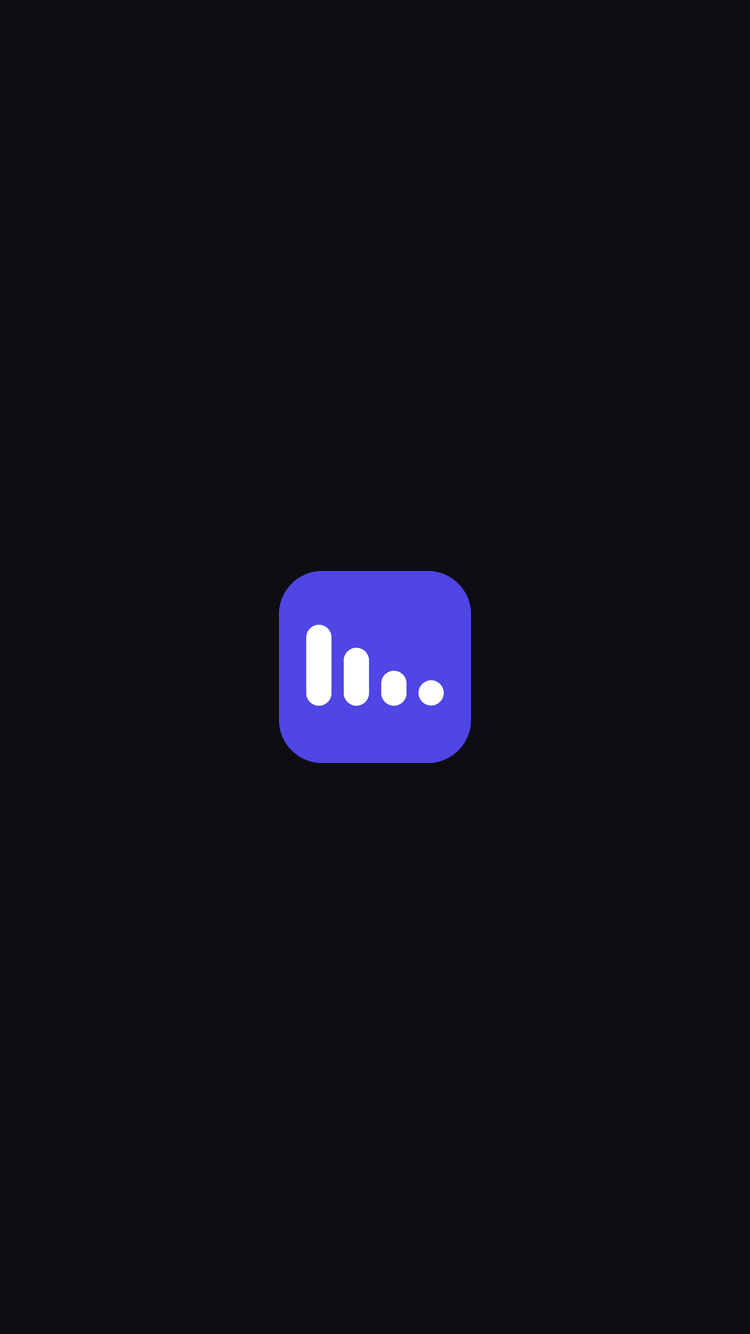
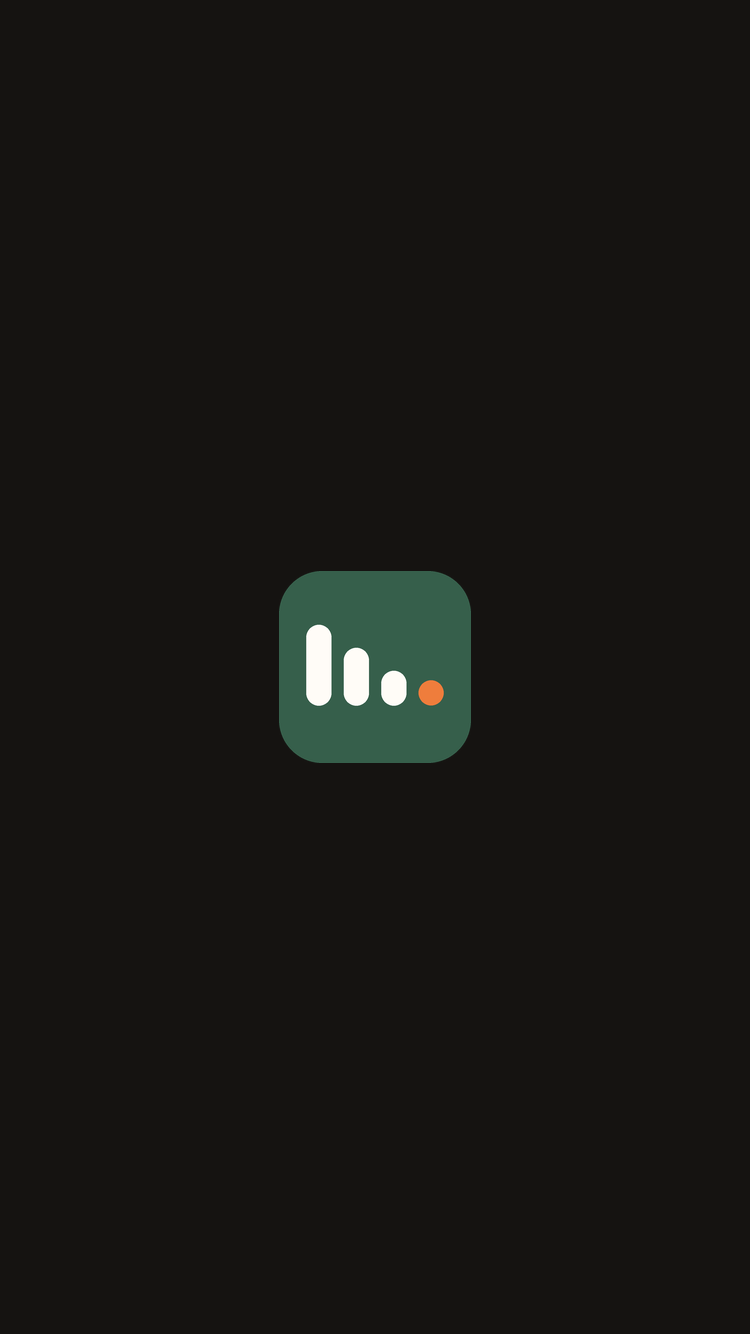
Colores salvia y naranja con luz cálida; totales de fijos y deudas en Pagos
- Fondo crema y tinta cálida, acción en salvia y detalle naranja (mes elegido, pestaña activa)
- Icono y pantallas de arranque nuevos con los mismos colores
- Pagos: total junto a Gastos fijos y Deudas

Claude-Session: https://claude.ai/code/session_018UgVd8pXpkyY3CYoFP76Vs

Changed region(s): [[0.368, 0.4303, 0.644, 0.584]]

diff --git a/docs/index.html b/docs/index.html
@@ -8,8 +8,8 @@
 <meta name="mobile-web-app-capable" content="yes">
 <meta name="apple-mobile-web-app-title" content="Cuentas">
 <meta name="apple-mobile-web-app-status-bar-style" content="default">
-<meta name="theme-color" content="#f4f4f8" media="(prefers-color-scheme: light)">
-<meta name="theme-color" content="#0e0e12" media="(prefers-color-scheme: dark)">
+<meta name="theme-color" content="#f6f1e9" media="(prefers-color-scheme: light)">
+<meta name="theme-color" content="#151311" media="(prefers-color-scheme: dark)">
 <link rel="apple-touch-icon" href="icon.png">
 <link rel="manifest" href="manifest.json">
 <link rel="apple-touch-startup-image" media="(device-width: 375px) and (device-height: 812px) and (-webkit-device-pixel-ratio: 3) and (prefers-color-scheme: light)" href="arranque-375x812.png">
@@ -34,15 +34,16 @@
 <link rel="apple-touch-startup-image" media="(device-width: 375px) and (device-height: 667px) and (-webkit-device-pixel-ratio: 2) and (prefers-color-scheme: dark)" href="arranque-oscuro-375x667@2x.png">
 <style>
 /* Mis cuentas: una web para el móvil que se maneja como una app de iPhone.
-   Un solo sistema: los tokens de :root. Superficies neutras, un único color de acción (índigo),
-   y color de estado solo para avisar (verde entra, naranja vas justo, rojo te has pasado). */
+   Un solo sistema: los tokens de :root. Luz cálida (crema), un color de acción (salvia), uno de detalle
+   (naranja: el mes elegido y la pestaña activa) y color de estado solo para avisar. */
 :root{
   /* color */
-  --bg:#f4f4f8; --surface:#fcfcfe; --surface-2:#ececf2; --field:#ececf2; --raised:#fcfcfe;
-  --ink:#15151c; --muted:#62626d; --soft:#b9b9c4; --line:rgba(21,21,28,.1);
-  --accent:#4f46e5; --accent-soft:rgba(79,70,229,.11); --on-accent:#ffffff;
+  --bg:#f6f1e9; --surface:#fffcf7; --surface-2:#efe8dd; --field:#efe8dd; --raised:#fffcf7;
+  --ink:#22201c; --muted:#6b645a; --soft:#c9bfb1; --line:rgba(34,32,28,.1);
+  --accent:#2f6b4f; --accent-soft:rgba(47,107,79,.11); --on-accent:#ffffff;
+  --pop:#ef7d3c; --pop-soft:rgba(239,125,60,.18);
   --good:#17803f; --warn:#a85600; --bad:#d92d20; --on-bad:#ffffff;
-  --glass:rgba(252,252,254,.84); --scrim:rgba(14,14,18,.36); --shadow:0 8px 24px rgba(21,21,28,.08);
+  --glass:rgba(255,252,247,.84); --scrim:rgba(20,18,15,.36); --shadow:0 8px 24px rgba(34,32,28,.08);
   /* tipo: crece con el tamaño de texto del iPhone (rem sobre el estilo de texto del sistema) */
   --font:-apple-system,BlinkMacSystemFont,"SF Pro Text",system-ui,"Helvetica Neue",sans-serif;
   --t-display:2.824rem; --t-large:1.647rem; --t-title:1.294rem; --t-body:1rem; --t-sub:.882rem; --t-foot:.765rem; --t-cap:.706rem; --t-tab:11px; /* la barra de pestañas no crece, como en iOS */
@@ -52,19 +53,20 @@
   --r-s:12px; --r-l:20px; --r-full:999px;
   --gutter-l:max(16px,env(safe-area-inset-left,0px)); --gutter-r:max(16px,env(safe-area-inset-right,0px));
   --ease:cubic-bezier(.2,.8,.2,1);
-  --brand:var(--accent); --on-brand:var(--on-accent);
+  --brand:#365f4b; --on-brand:#ffffff;
   accent-color:var(--accent); caret-color:var(--accent);
 }
 @media (prefers-color-scheme: dark){:root{
-  --bg:#0e0e12; --surface:#1a1a21; --surface-2:#26262f; --field:#2e2e38; --raised:#22222a;
-  --ink:#f2f2f6; --muted:#a0a0ac; --soft:#55555f; --line:rgba(242,242,246,.1);
-  --accent:#8b85ff; --accent-soft:rgba(139,133,255,.16); --on-accent:#0e0e12;
+  --bg:#151311; --surface:#211e1a; --surface-2:#2d2924; --field:#35302a; --raised:#28241f;
+  --ink:#f5efe6; --muted:#aea493; --soft:#5a5248; --line:rgba(245,239,230,.1);
+  --accent:#7fcca5; --accent-soft:rgba(127,204,165,.15); --on-accent:#151311;
+  --pop:#ff9a5c; --pop-soft:rgba(255,154,92,.18); --brand:#3d6b55; --on-brand:#ffffff;
   --good:#3dd68c; --warn:#ffb340; --bad:#ff6b5e; --on-bad:#0e0e12;
-  --glass:rgba(34,34,42,.84); --scrim:rgba(0,0,0,.55); --shadow:0 8px 24px rgba(0,0,0,.35);
+  --glass:rgba(40,36,31,.84); --scrim:rgba(0,0,0,.55); --shadow:0 8px 24px rgba(0,0,0,.35);
   color-scheme:dark;
 }}
-@media (prefers-contrast: more){:root{--line:rgba(21,21,28,.32); --muted:#4a4a54; --glass:var(--surface)}}
-@media (prefers-contrast: more) and (prefers-color-scheme: dark){:root{--line:rgba(242,242,246,.32); --muted:#c4c4ce}}
+@media (prefers-contrast: more){:root{--line:rgba(34,32,28,.32); --muted:#4d473f; --glass:var(--surface)}}
+@media (prefers-contrast: more) and (prefers-color-scheme: dark){:root{--line:rgba(245,239,230,.32); --muted:#cfc6b8}}
 
 *{box-sizing:border-box}
 [hidden]{display:none!important}
@@ -232,6 +234,7 @@ header.top{display:flex;flex-direction:column;gap:var(--s1);padding-top:var(--s3
 .check.done .c,.check.done .ebody .num{color:var(--muted)}
 .lrow > span:first-child{min-width:0}
 /* opcionales y saltados del mes */
+.gtot{font-weight:600;color:var(--muted);margin-left:6px}
 .gnote{font-size:var(--t-foot);color:var(--muted);padding:0 4px;margin-top:calc(-1 * var(--s1))}
 .opt{display:grid;grid-template-columns:minmax(0,1fr) auto;gap:2px var(--s3);align-items:center;padding:10px 0;min-height:60px;border-top:.5px solid var(--line)}
 .list > .opt:first-child{border-top:0}
@@ -452,11 +455,11 @@ svg.chart text{fill:var(--muted);font:500 26px var(--font)}
       <div class="card" id="mesCuentas"></div>
     </section>
     <section class="group" aria-labelledby="hFijos">
-      <div class="ghrow"><h2 id="hFijos">Gastos fijos</h2><button class="ghlink" id="addFijo">Añadir fijo</button></div>
+      <div class="ghrow"><h2 id="hFijos">Gastos fijos <span class="gtot num" id="totFijos"></span></h2><button class="ghlink" id="addFijo">Añadir fijo</button></div>
       <div class="card"><div class="list" id="fijos"></div></div>
     </section>
     <section class="group" aria-labelledby="hCuotas">
-      <div class="ghrow"><h2 id="hCuotas">Deudas</h2></div>
+      <div class="ghrow"><h2 id="hCuotas">Deudas <span class="gtot num" id="totCuotas"></span></h2></div>
       <div class="card"><div class="list" id="cuotas"></div></div>
     </section>
     <section class="group" id="optGroup" aria-labelledby="hOpt" aria-describedby="optNota" hidden>
@@ -741,7 +744,7 @@ function deudaActual(){ return D.deudas.filter(d => !d.pagada).reduce((s,d) => s
 // Cada categoría con su tono: el icono en color sobre un fondo suave del mismo color.
 const TONO = {'Restaurantes':'#ea580c','Supermercado':'#16a34a','Transporte':'#2563eb','Compras':'#db2777','Viajes':'#0891b2','Ocio':'#9333ea',
   'Salidas de noche':'#7c3aed','Suscripciones':'#e11d48','Vivienda':'#b45309','Salud':'#dc2626','Deporte':'#0d9488','Cuidado personal':'#c026d3',
-  'Teléfono e internet':'#0284c7','Impuestos':'#57534e','Ingreso':'#15803d','Movimiento interno':'#64748b','Pago de deuda':'#c2410c','Entre personas':'#4f46e5',
+  'Teléfono e internet':'#0284c7','Impuestos':'#57534e','Ingreso':'#15803d','Movimiento interno':'#64748b','Pago de deuda':'#c2410c','Entre personas':'#6d5bd0',
   'Bizum':'#0e7490','Tabaco':'#78716c','Apuestas':'#a16207','Comisiones':'#64748b','Educación':'#1d4ed8','Multas':'#b91c1c','Efectivo':'#15803d'};
 const tono = cat => TONO[cat] || '#64748b';
 const icon = cat => `<span class="ico" style="--c:${tono(cat)}" aria-hidden="true">${svg(cat)}</span>`;
@@ -1215,7 +1218,7 @@ function renderMes(){
   if (cur < INICIO_SEGUIMIENTO) {
     $('mesProg').textContent = 'Aún no'; $('mesProg').className = 'big num txt'; $('mesBar').style.width = '0'; $('mesLabel').textContent = 'Pagado este mes';
     $('mesFalta').className = 'status'; $('mesFalta').textContent = `El seguimiento empieza en ${monthName(INICIO_SEGUIMIENTO)}.`;
-    $('cuentasGroup').hidden = $('optGroup').hidden = $('saltGroup').hidden = true; $('fijos').innerHTML = ''; $('cuotas').innerHTML = '';
+    $('cuentasGroup').hidden = $('optGroup').hidden = $('saltGroup').hidden = true; $('totFijos').textContent = $('totCuotas').textContent = ''; $('fijos').innerHTML = ''; $('cuotas').innerHTML = '';
     return;
   }
   const m = estadoMes();
@@ -1235,7 +1238,10 @@ function renderMes(){
   $('mesCuentas').innerHTML = Object.entries(porCuenta).sort((a,b) => b[1]-a[1]).map(([k,v]) => `<div class="lrow"><span>${esc(k)}</span><b class="num">${eur(v)}</b></div>`).join('');
 
   const tickSvg = '<svg viewBox="0 0 24 24"><path d="M5 12.5l4.5 4.5L19 7.5"/></svg>';
-  $('fijos').innerHTML = fijosDelMes().map(f => {
+  const fm = fijosDelMes(), cm = cuotasDelMes();
+  $('totFijos').textContent = fm.length ? eurC(fm.reduce((a, f) => a + Number(pmDe('fijo', f.id)?.importe ?? f.importe), 0)) : '';
+  $('totCuotas').textContent = cm.length ? eurC(cm.reduce((a, d) => a + importeDeuda(d), 0)) : '';
+  $('fijos').innerHTML = fm.map(f => {
     const r = pmDe('fijo', f.id), v = !r && visto(f.concepto, f.importe);
     return `<div class="check ${r ? 'done' : ''}">
       <button class="tick" data-fijo="${f.id}" aria-label="${r ? 'Marcar como no pagado' : 'Marcar como pagado'}: ${esc(f.concepto)}, ${eurC(r?.importe ?? f.importe)}">${tickSvg}</button>
@@ -1244,7 +1250,7 @@ function renderMes(){
     </div>`;
   }).join('') || '<p class="empty">No hay gastos fijos este mes.</p>';
 
-  $('cuotas').innerHTML = cuotasDelMes().map(d => {
+  $('cuotas').innerHTML = cm.map(d => {
     const r = pmDe('deuda', d.id), imp = importeDeuda(d), v = !r && visto(d.nombre, imp), extra = !d.cuota && !d.cada_mes;
     return `<div class="check ${r ? 'done' : ''}">
       <button class="tick" data-deuda="${d.id}" aria-label="${r ? 'Marcar como no pagado' : 'Marcar como pagado'}: ${esc(d.nombre)}, ${eurC(imp)}">${tickSvg}</button>
